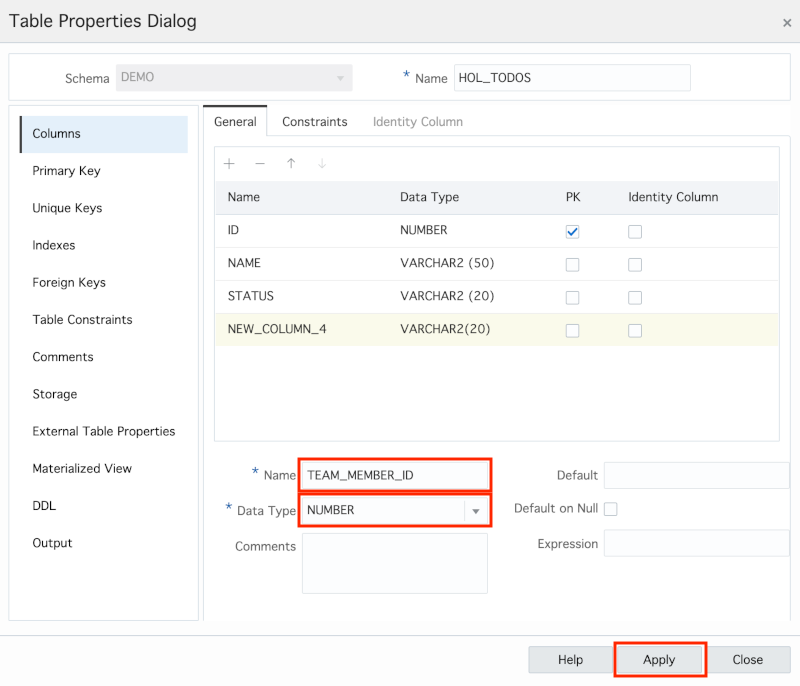
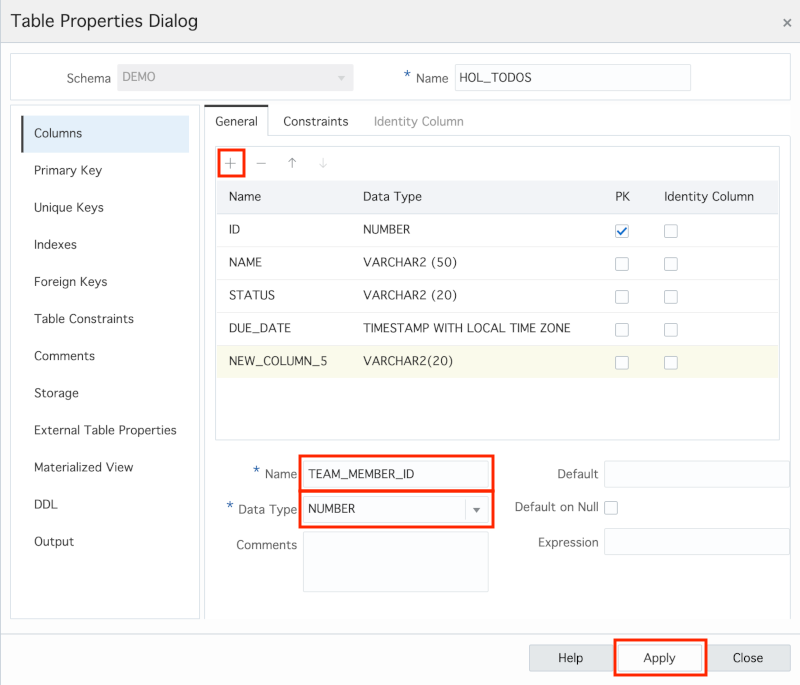
updates

diff --git a/3-build-database-objects-in-autonomous-database.md b/3-build-database-objects-in-autonomous-database.md
@@ -208,13 +208,17 @@ In this part, you will use SQL Developer Web to create a new table. Then you'll 
 
    ![](images/3/table-properties.png)
 
-3. Select the new column **NEW_COLUMN_1** and select the checkbox for **PK** to make it the primary key for this new table. In the area at the bottom of the dialog, enter **id** for Name and select **NUMBER** for Data Type.
+3. Select the new column **NEW_COLUMN_1** and select the checkbox for **PK** to make it the primary key for this new table. In the area at the bottom of the dialog, enter **ID** for Name and select **NUMBER** for Data Type.
 
    ![](images/3/new-column-1.png)
 
-4. Add two more columns with the following properties.
-   - Name: **name**; Data Type: **VARCHAR2(50)** (just change the number 20 to 50)
-   - Name: **status**; Data Type: **VARCHAR2(20)**
+4. Add three more columns with the following properties.
+
+   | # | Name | Data Type |
+   | --- | --- | --- |
+   | 1 | **NAME** | **VARCHAR2(50)** <br />*(just change the number 20 to 50)* |
+   | 2 | **STATUS** | **VARCHAR2(20)** |
+   | 3 | **DUE_DATE** | **TIMESTAMP WITH LOCAL TIME ZONE** <br />*(just type the full data type name)* |
 
    ![](images/3/additional-new-columns.png)
 
